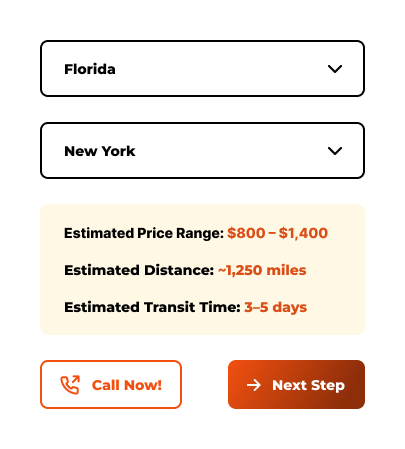
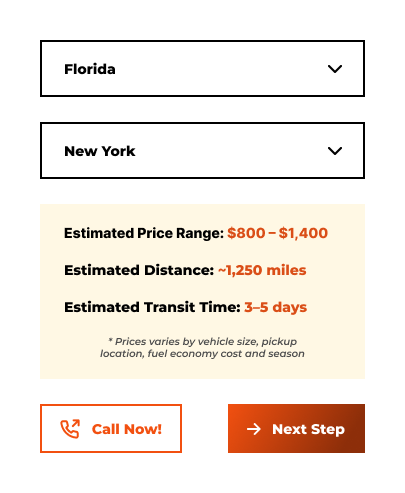
Add disclaimer text to estimate box
- Added disclaimer text: "* Prices varies by vehicle size, pickup location, fuel economy cost and season"
- Imported Montserrat SemiBold Italic (weight 600)
- Styled disclaimer with 10px font size in color #4E4E4E
- Positioned with 16px top margin and center alignment
- Updated both plugin PHP and test HTML files

diff --git a/assets/css/estimator.css b/assets/css/estimator.css
@@ -1,7 +1,7 @@
 /* Vehicle Transport Estimator - Pixel Perfect Styles */
 
-/* Import Montserrat font */
-@import url('https://fonts.googleapis.com/css2?family=Montserrat:wght@800&display=swap');
+/* Import Montserrat fonts */
+@import url('https://fonts.googleapis.com/css2?family=Montserrat:ital,wght@0,800;1,600&display=swap');
 
 /* Container */
 .vte-wrap {
@@ -108,6 +108,19 @@
   color: #D84315;
   display: inline;
   margin-left: 4px;
+}
+
+/* Disclaimer Text */
+.vte-disclaimer {
+  margin: 16px 0 0 0;
+  padding: 0;
+  font-family: 'Montserrat', sans-serif;
+  font-size: 10px;
+  font-weight: 600;
+  font-style: italic;
+  line-height: 14px;
+  color: #4E4E4E;
+  text-align: center;
 }
 
 /* Message Box - Same Beige Background */

diff --git a/test.html b/test.html
@@ -37,6 +37,7 @@
                     <span class="vte-estimate-label">Estimated Transit Time:</span>
                     <span class="vte-estimate-value" id="vte-transit"></span>
                 </div>
+                <p class="vte-disclaimer">* Prices varies by vehicle size, pickup location, fuel economy cost and season</p>
             </div>
 
             <div id="vte-message" class="vte-message-box" role="status" aria-live="polite" hidden>

diff --git a/vehicle-transport-estimator.php b/vehicle-transport-estimator.php
@@ -143,6 +143,7 @@ function vte_shortcode_handler( $atts ) {
                     <span class="vte-estimate-label">Estimated Transit Time:</span>
                     <span class="vte-estimate-value" id="vte-transit"></span>
                 </div>
+                <p class="vte-disclaimer">* Prices varies by vehicle size, pickup location, fuel economy cost and season</p>
             </div>
 
             <div id="vte-message" class="vte-message-box" role="status" aria-live="polite" hidden>
